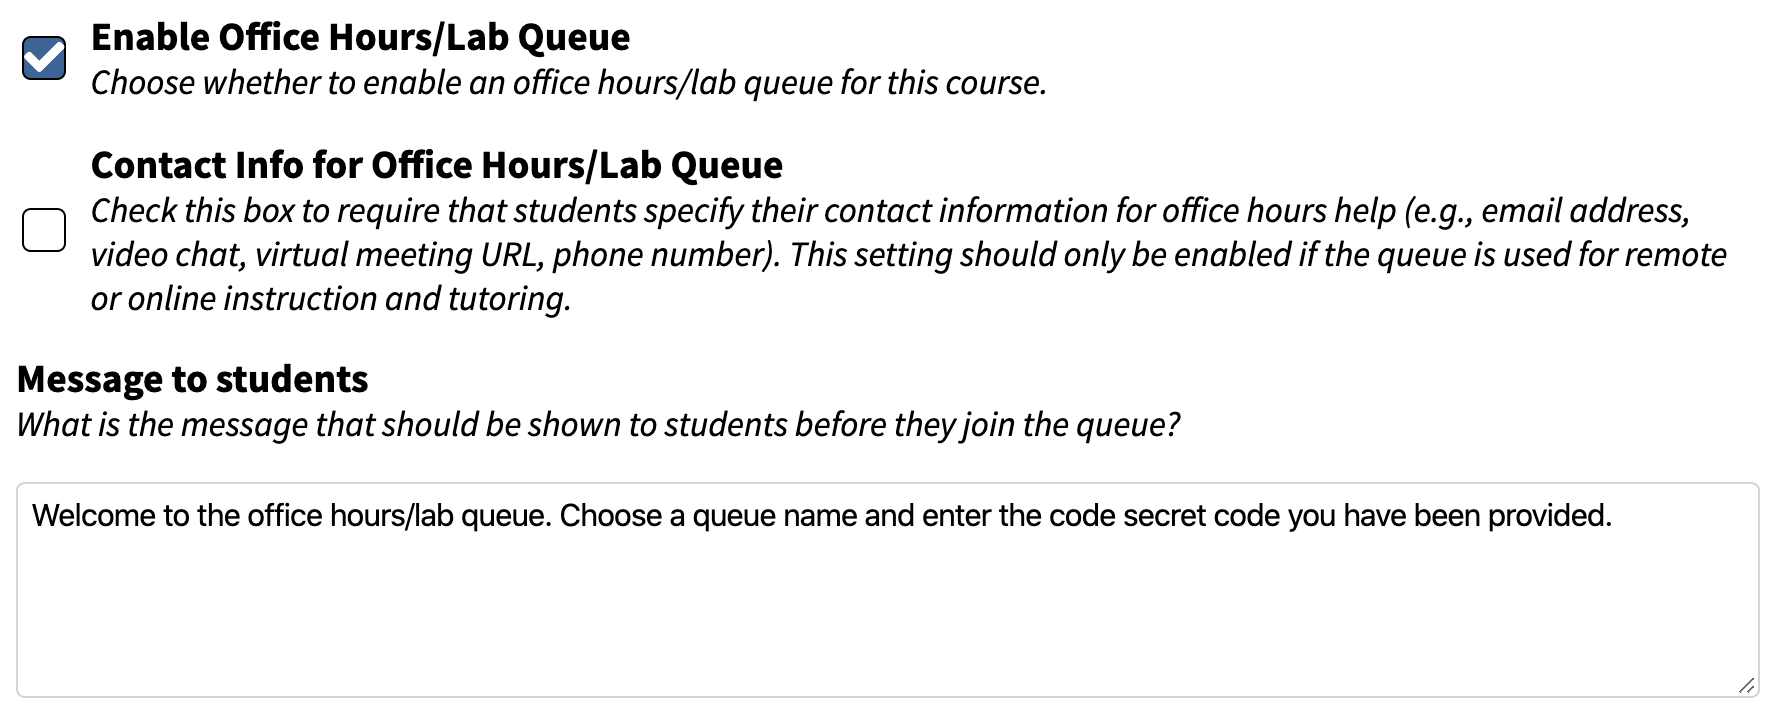
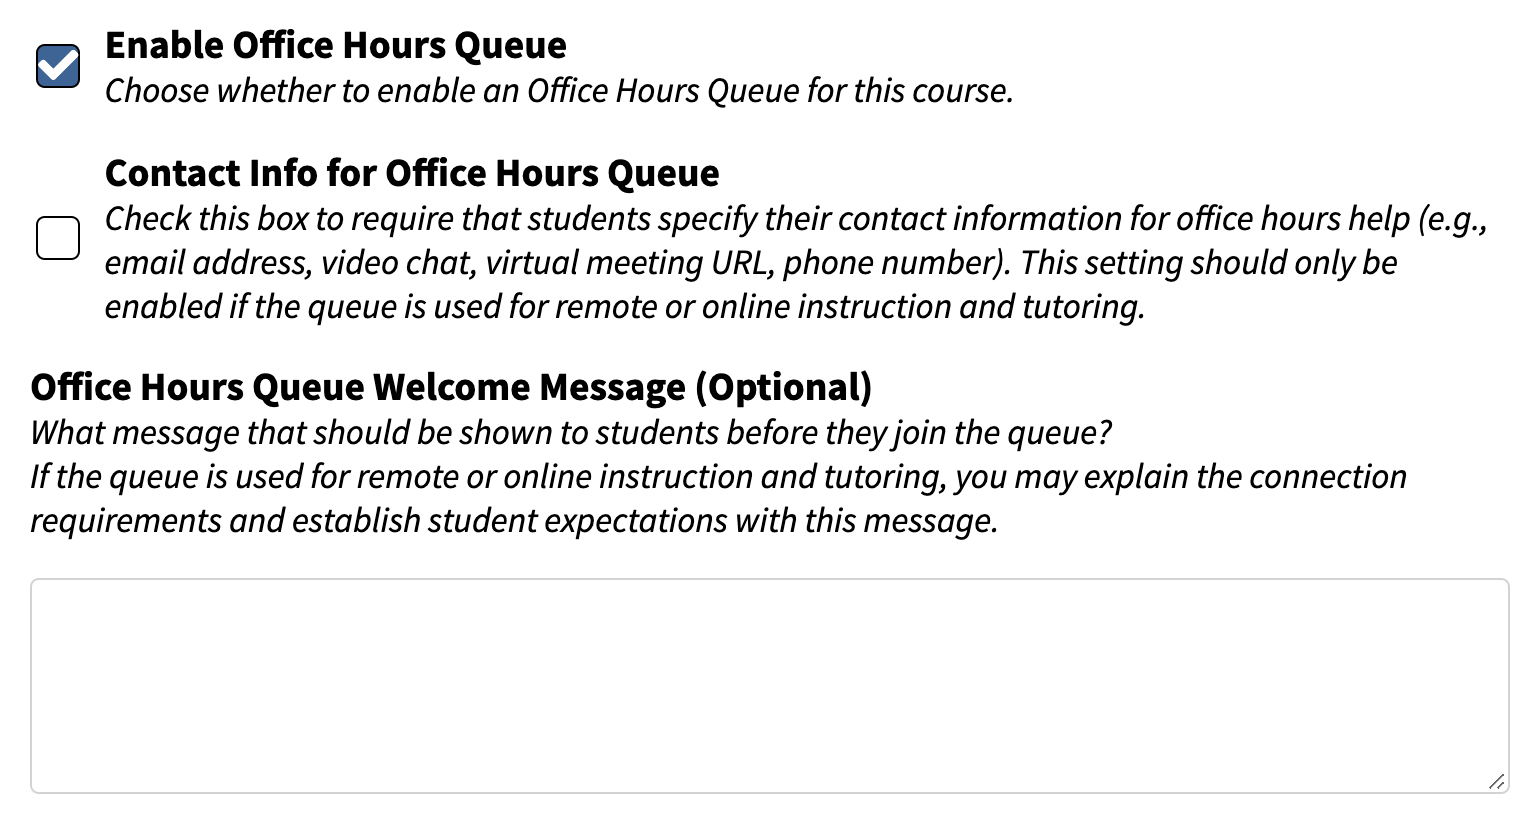
update student queue docs

diff --git a/_docs/grader/queue.md b/_docs/grader/queue.md
@@ -33,7 +33,7 @@ TAs/instructors. The queue helps manage the students waiting to be
 helped as well as the students currently being helped.  We store all
 relevant timestamps for each entry in the queue.  Usage statistics can
 be tracked, analyzed, and instructional resources balanced
-appropriately.  *NOTE: Queue Statistics coming soon!*
+appropriately.  *NOTE: Office Hours Queue Statistics coming soon!*
 
 
 ### Enabling the Office Hours Queue
@@ -50,65 +50,68 @@ on the left sidebar of all course pages.
 ![](/images/queue/queue_menu.png)
 
 If students will be connecting to the queue for remote office hours or
-remote tutoring, the instructor user also check the box to require
+remote tutoring, the instructor user should also check the box to require
 that students provide contact information.  The format of this contact
 information is flexible.  You should inform your students of the
-recommended procedure for receiving remote tutoring help -- you can do
+recommended procedure for receiving remote tutoring help.  You can do
 this in the customizable "Message to Students", and through other
 communication and lecture materials.  For example, students might be
 required to provide a phone number, email address, or remote meeting
 URL.
 
+![](/images/queue/queue_enable_completed.png)
 
 ### Creating a New Office Hours Queue
 
-All users with limited access grader priviledges or higher may access,
+All users with limited access grader privileges or higher may access,
 create, and manage office hours queues for this course.
 
 To create and open a new queue you need click "Toggle Filter Settings"
 button.  Then, enter a unique name for the new queue.  If your course
 has multiple recitation or laboratory sections, you may want to make a
 separate queue for each section/room.  You may also want to make
-different queues for the type of assistance needed, as appropriate for
-your topic and course structure.
+different queues for the type of assistance needed (e.g., help,
+checkoff, code debugging, lecture material, etc.), as appropriate for
+your topic and course structure.  *Note: A student may only join one
+office hours queue at a time!*
 
 ![](/images/queue/queue_new_queue.png)
 
 Often it is helpful to *require* that students be present in the
 tutoring room prior to joining the queue.  To enforce this policy,
-each queue has a security "code".  You can post this code at the front
-of the room, so only students in the room know the code and can enter
+each queue has an access "code".  You can post this access code at the front
+of the room, so only students in the room know the access code and can enter
 the queue.  Then select "Open New Queue".
 
-The security code of an existing queue can be changed or re-randomized
-at any time by selecting the refresh icon to the right of the code or
-you may set your own code, as desired.  Then press "Change Queue
+The access code of an existing queue can be changed or re-randomized
+at any time by selecting the refresh icon to the right of the access code or
+you may set your own access code, as desired.  Then press "Change Queue
 Code".
 
-![](/images/queue/queue_change_code.png)
-
-
-### Managing an Existing Queue
+### Managing an Existing Office Hours Queue
 
 When the designated office hours or tutoring session is complete, the
 TA/instructor should close the queue to prevent additional students
-from joining the queue.  Closing the queue does not delete it; rather,
-the uniquely named queue is available to be re-opened and re-used
-tomorrow or next week!
+from joining the queue.  Click "Toggle Filter Settings" and then
+"Close Queue" on the desired queue.  Closing the queue does not delete
+it; rather, the uniquely named queue is available to be re-opened and
+re-used tomorrow or next week!
 
 All students who entered the queue before it was closed will remain in
 the queue and can be helped.  Alternatively, the TA/instructor may
-remove all students from the queue by pressing "Empty Queue".
+remove all students from the queue by pressing "Empty Queue" or press
+"Delete Queue" to remove students from the queue *and* delete the
+queue.
 
 
-### Filtering Queues
+### Filtering Office Hours Queues
 
 In a large course with multiple active/open queues and multiple
 TAs/instructors helping students, it is typical to assign some
 TAs/instructors to focus on specific queues.  Each TA/instructor can
-filter the queue of all students by clicking "Toggle Filter Settings",
-and then selecting/filtering the list to one or more queues.  Then
-press "Toggle Filter Settings" to close the queue names.  
+filter the queue of all students waiting for help by clicking "Toggle
+Filter Settings", and then selecting/filtering the list to one or more
+queues.  Then press "Toggle Filter Settings" to close the queue names.
 
 ![](/images/queue/queue_filter.png)
 
@@ -117,11 +120,11 @@ displayed.
 
 
 
-### Helping Students in the Queue
+### Helping Students in the Office Hours Queue
 
-The queue is sorted chronologically by timestamp of the entry into the
+The queue is sorted chronologically by timestamp of student entry into the
 queue.  Typically, the instructional staff will prioritize the queue
-chronologically, always helping the student at the top of the list.
+chronologically, helping the student at the top of the list.
 To start helping a specific student in the queue, press the "Help"
 button for that student.
 
@@ -134,15 +137,15 @@ helped today (at least not through the Section4 queue), but Ben has
 already been helped at least once today.  To fairly distribute
 tutoring resources, the instructional staff may adopt a policy whereby
 *starred* students are prioritized, even if they are not the student
-in the queue the longest.
+who has been in the queue the longest.
 
 Once you have started helping a student, the status button for that
 student will switch to a green "Finish Helping" button.  Also the
 "Time" column will switch from the wall clock time when the student
 entered the queue, to a minutes and seconds timer (m:ss) indicating
-the length of time you have been helping that student.  This
+the length of time that you have been helping that student.  This
 information will be helpful in busy office hours with limited
-instructional staff.  The TAs/instructors may want to implement a
+instructional staff.  The TAs/instructors may set a policy with a
 maximum time limit for help/tutoring per student.
 
 ![](/images/queue/queue_finish_blue.png)
@@ -152,7 +155,7 @@ hours queue, your display will show a blue "Finish Helping" button
 for students being helped by other TAs/instructors.
 
 When you have finished helping a student, press the "Finish Helping"
-button.  Note: If you forget to click this button to remove the
+button.  If you forget to click this button to remove the
 student from the queue, they can exit the queue from their own
 interface.
 
@@ -162,15 +165,15 @@ interface.
 ### Note about Student Privacy
 
 When students join the queue, they may specify an alternate name --
-different from both their legal/registration name or their
+different from both their legal/registration name and their
 [preferred name](../student/#how-can-i-change-my-preferred-name).
-This is the name that the TA/instructor will call out aloud
+The queue name is the name that the TA/instructor will call out aloud
 in the room, if they do not know
-the each students by name/face.  The TA/Instructor has access to view the
-students preferred name by clicking the eye icon.
+the each students by name/face.  The TA/Instructor also has access to view the
+student's user id by clicking the eye icon.
 
 
-### Queue History
+### Office Hours Queue History
 
 The bottom of the page shows the most recent events in the queue from
 the current day.  As desired, you can click to view all queue events
@@ -178,3 +181,8 @@ from the current day.  The history displays who was helped, how long
 they waited before help arrive, the length of time they were being
 helped, and who helped them.  The history includes an option to the
 student to the queue if they were accidently removed.
+
+
+### Office Hours Queue Statistics
+
+*NOTE: Office Hours Queue Statistics coming soon!*

diff --git a/_docs/student/queue.md b/_docs/student/queue.md
@@ -3,54 +3,95 @@ title: Getting Help through the Office Hours Queue
 category: Student
 ---
 
-### Overview of the Queue
-A new way to organize, assist, and empower students to get the help they need.
 
-### What is the Queue
-![](/images/queue/queue_main_view.png)
 
-The queue available on submitty allows each class to maintain
-multiple queues per class. This makes it easier for students
-to get help from a member of the teaching staff without having
-to move to the board and write your name on a central board or 
-draw attention to yourself.
+### What is the Office Hours Queue?
 
-### Who does the Queue help
-The queue is meant to be used by anyone. However, this feature
-is particularly helpful for physically handicapped students who
-may find moving to write their name on the board a difficult task.
-In addition students with social anxieties may be less likely to 
-want to draw attention to themself but the queue allows them to get
-help without the extra attention that comes from raising your hand.
+The Office Hours Queue organizes, assists, and empowers students to
+get the help they need.  The names of students who are waiting for
+assistance are ordered by initial request time.  This web-based queue
+is an alternative to raising your hand or writing your name on a
+common physical whiteboard at the front of the classroom.
 
-### Joining the Queue
+Your instructor will enable the office hours queue and then open one
+or more queues per class.  Follow instructions about which queue to
+join, the necessary access 'code', and (in the case of remote/online
+assistance) what contact information you should provide.
+
+![](/images/queue/queue_menu.png)
+
+Once enabled, you will see the "Office Hours Queue" on the left
+sidebar of all course pages.  *Note: The door icon opens or closes
+when there is an open queue in your course.*
+
+
+
+### How do I join the Office Hours Queue?
+
+You can join the office hours queue by clicking on "Office Hours
+Queue" from the left sidebar, and then entering your name, selecting
+an available queue from the drop down list, and then entering the
+access code for that queue.
+
 ![](/images/queue/queue_join.png)
 
-Students can join the queue by going to the queue section from the left side
-and entering their name, selecting a queue name from the drop down list, and
-entering the code for that queue. If you are unsure which queue you want to join
-or the code for that queue ask your instructor running that queue.
+Note that your instructor and TAs may have created
+multiple queues for your course to organize student questions and
+manage staff.  Be sure to follow the specific instructions for your
+course about queue usage.  For example, the queue access code may only
+be available to students who are physically present in the tutoring
+room.
 
-### Waiting in the Queue
+
+### Specifying Your Contact Information
+
+If the teaching staff is available for remote office hours or remote
+tutoring assistance, please follow their instructions for providing
+your contact information when you join the office hours queue.  Here
+is an example of what you might be asked for:
+
+![](/images/queue/queue_remote_access_code.png)
+
+
+### Waiting in the Office Hours Queue
+
+Once you have successfully joined the queue, you will be able to see
+how many people are ahead of you in the queue.
+
 ![](/images/queue/queue_waiting.png)
 
-Once in the queue, you will be able to see how many people are ahead of you in 
-line as well as which queue you are currently waiting in. In order to get the most
-benifit out of the features of the queue including queue history and instructor tools
-be sure to give the instructor a chance to remove you from the queue properly. However,
-if they forget you can use the red button to remove yourself from the queue.
+If you solve your bug or answer your own question while waiting, press
+the "Leave Queue" button.  Once you have been helped, the
+TA/instructor should remove you from the queue.  But if you were
+helped and they they forgot to remove you, you may see this message:
 
 ![](/images/queue/queue_helping.png)
 
-### Protecting Privacy with the Queue
-When students join the queue they may not be comfortable using their real name
-and have the option of entering something different. However, if students abuse this
-privilage instructors have the ability to view the students username used for login.
+You can click "Finish Being Helped" to remove yourself in this case.
+(And then you can rejoin this queue or another queue in the future.)
 
-### Queue History
-The queue history shows that the backlog of each student when they were helped that day. 
-By default the history only shows the most recent activity but the enitre backlog is available 
-to view. The history keeps track of when the student was helped, how long they waited and
-which instructor helped them.
+
+### Protecting Your Privacy in the Office Hours Queue
+
+The names (and contact information) of students in the queue are
+visible only to the instructor and TAs who are answering questions and
+tutoring.
+By default, your Submitty [preferred name](../student/#how-can-i-change-my-preferred-name) will be
+inserted into the "Your Name" field of the Office Hours Queue.
+When office
+hours is held in a common physical name, the TA/instructor may call
+this name aloud (if they don't yet know the names/faces of all
+students in the course).
+If desired, you
+may specify an alternate name when you join the office hours queue.
+The instructor/TA also has access to your
+Submitty user id if needed.
+
+### Office Hours Queue History
+
+At the bottom of this page you can view a log of your interactions with the queue today.
+
+
+### Administering the Office Hours Queue
 
 Instructors and graders, please also read [Managing the Office Hours Queue](../grader/queue)
